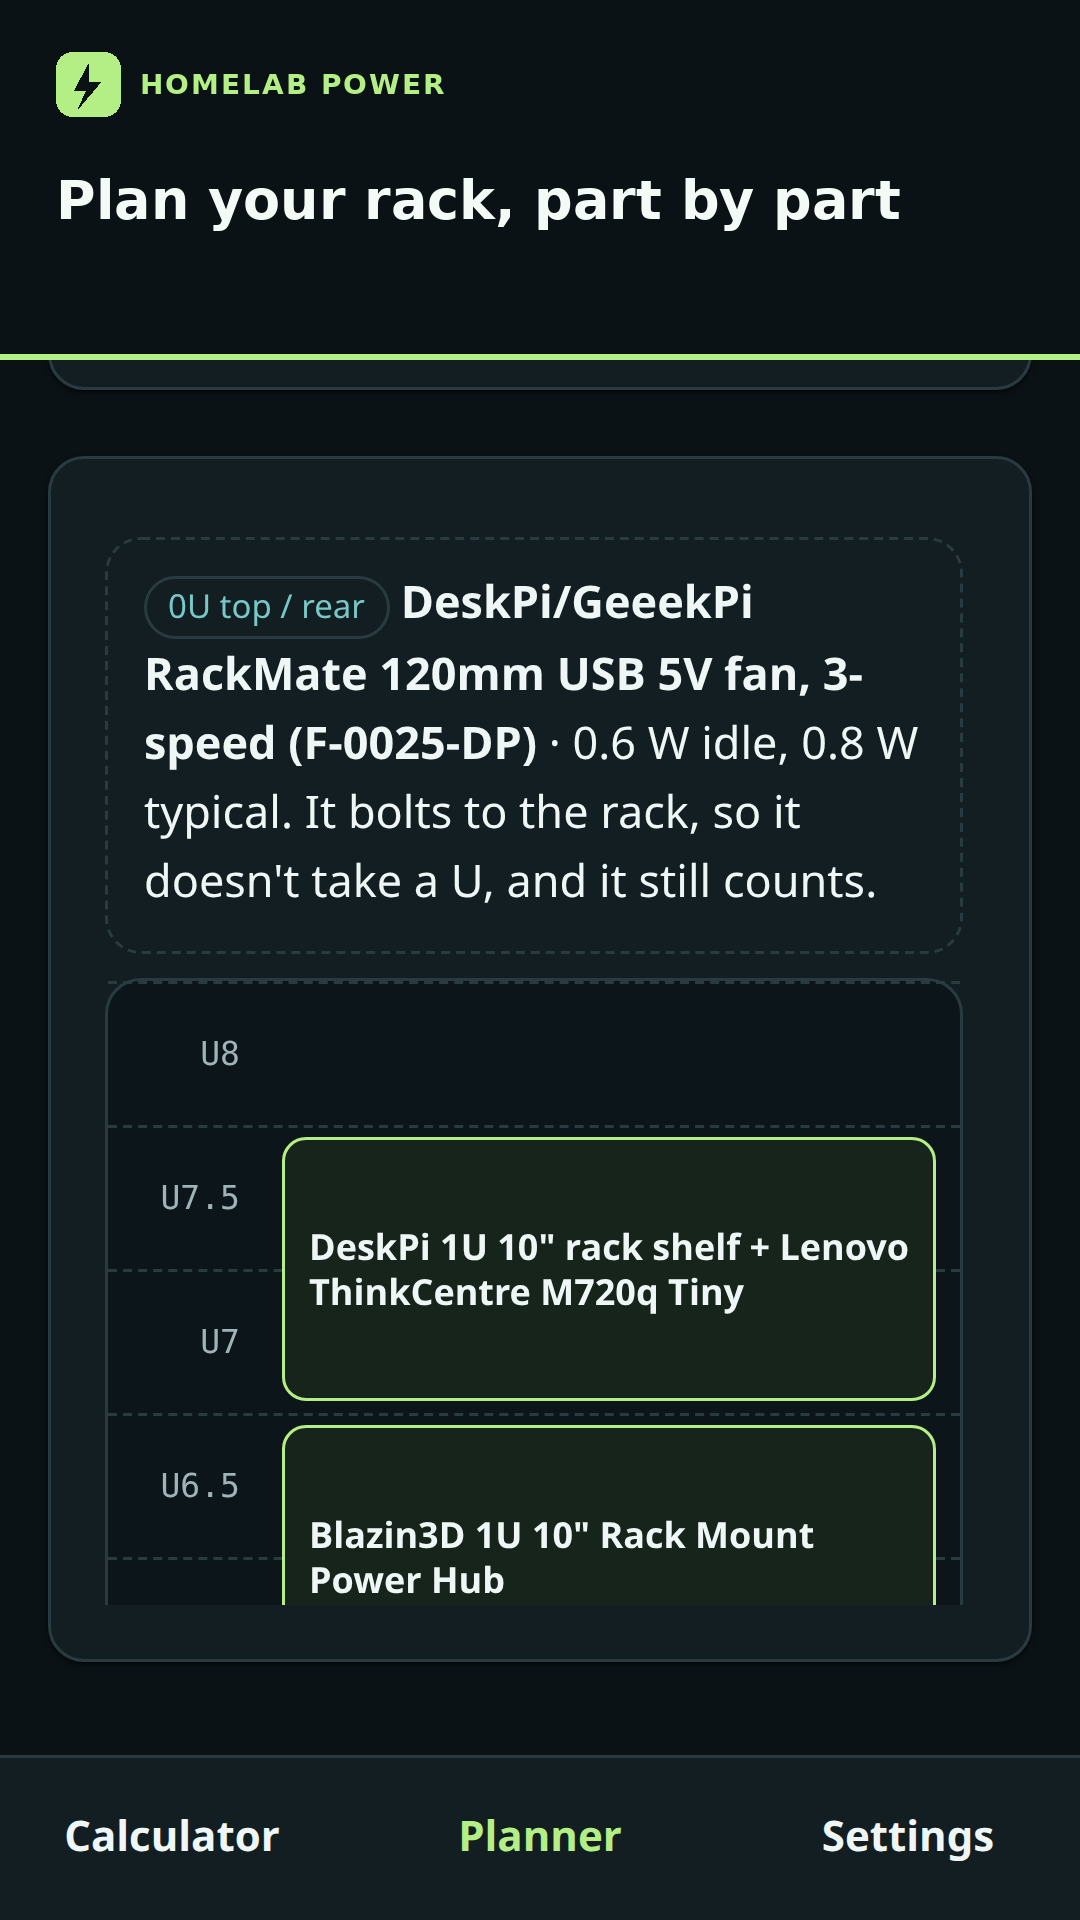
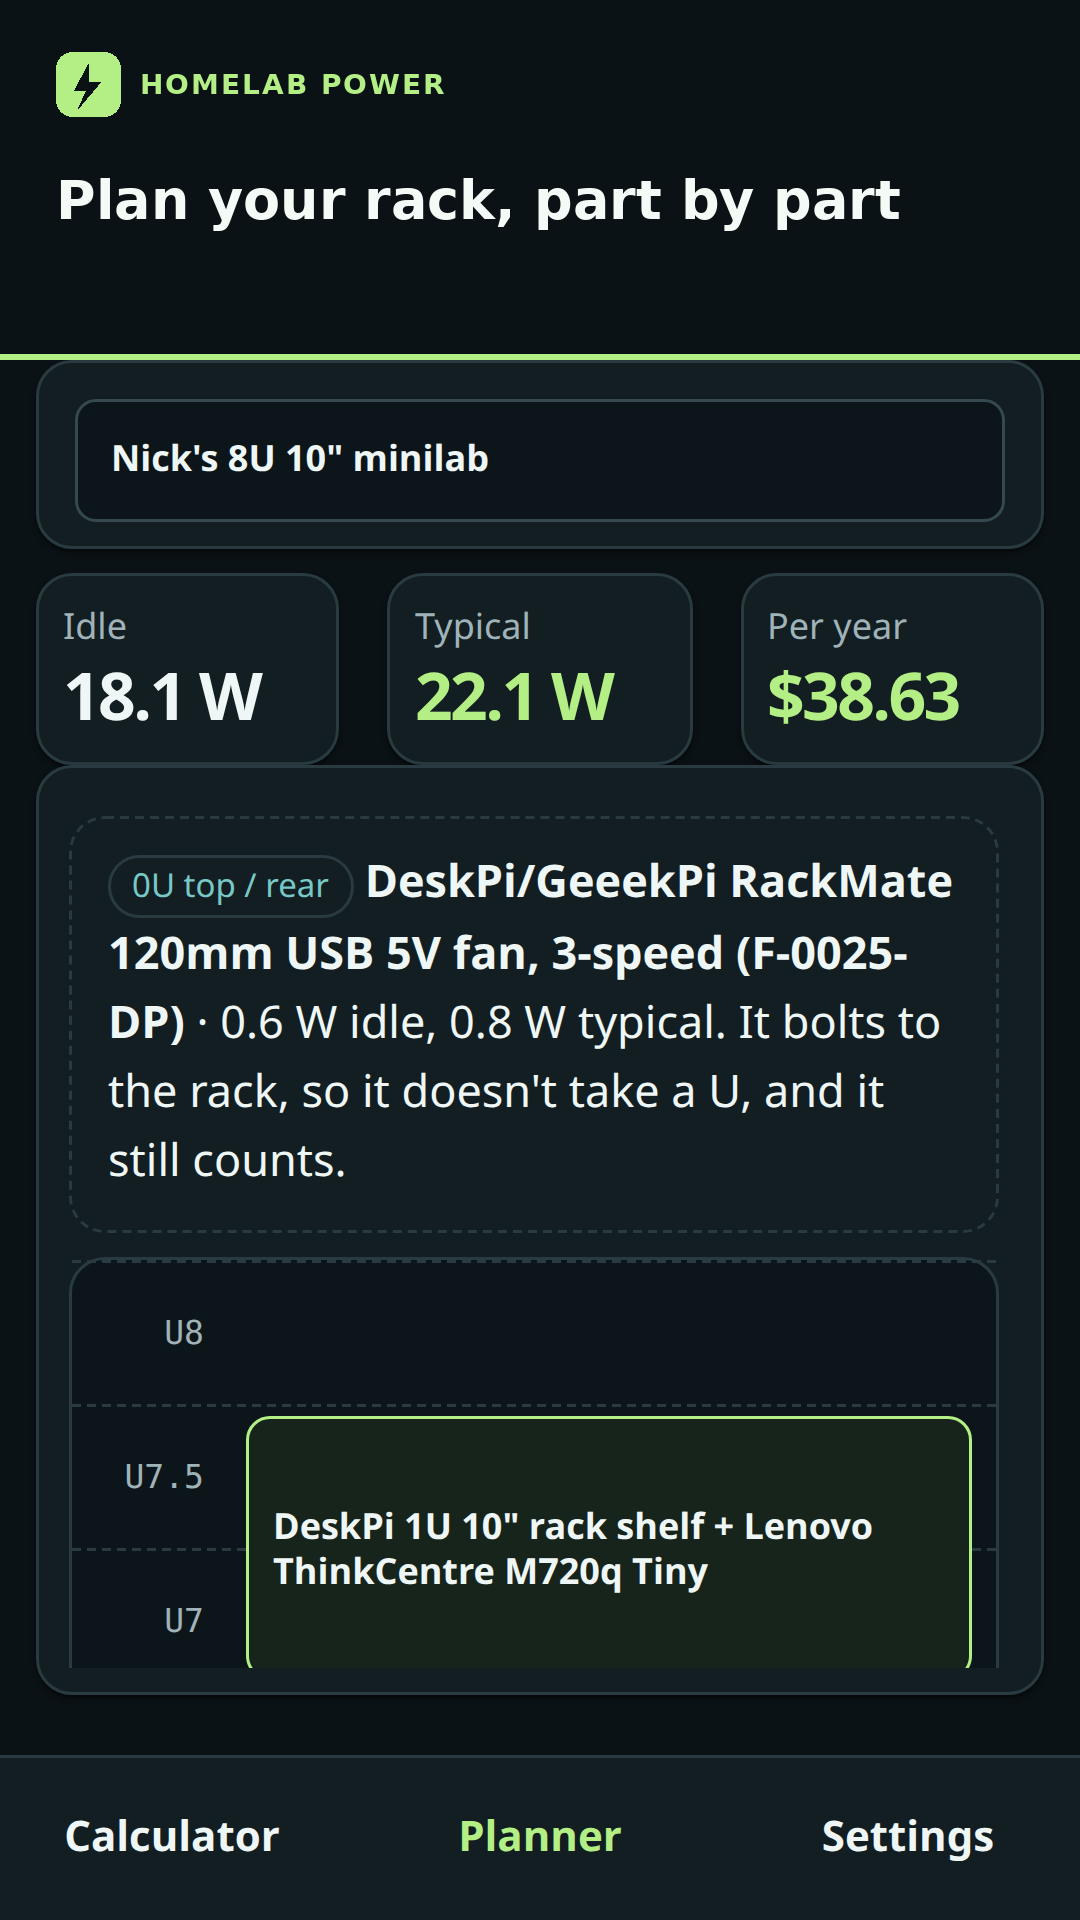
Fix Play screenshot crops and the planner's swap and UPS wording.
The planner frame starts at the build name and yearly cost. Suggestions use short names, and UPS runtime is hours and minutes.

diff --git a/planner.js b/planner.js
@@ -263,6 +263,10 @@ function renderTotals(build) {
   if (wide.length) bits.push('A 19 inch part won\'t sit in a 10 inch rack. It\'s listed with the shelf gear.');
   $('fitWarning').hidden = !bits.length;
   $('fitWarning').textContent = bits.join(' ');
+  const {rate, currency} = currentRate();
+  const year = M.energyCost(t.typical, rate).year;
+  $('yearTotal').textContent = money(year, currency);
+  $('yearTotal').dataset.cost = String(year);
   $('idleHeat').textContent = `${fmt(M.btuPerHour(t.idle), 1)} BTU/hr`;
   $('typicalHeat').textContent = `${fmt(M.btuPerHour(t.typical), 1)} BTU/hr`;
   $('idleHeat').dataset.btu = String(M.btuPerHour(t.idle));
@@ -389,29 +393,42 @@ function renderPro() {
   $('proTools').hidden = !on;
   if (on) renderCompare();
 }
+function runtimeWords(minutes) {
+  const total = Math.round(Number(minutes));
+  if (!Number.isFinite(total) || total < 0) return 'an unknown time';
+  if (total <= 90) return total === 1 ? '1 minute' : `${total} minutes`;
+  const hours = Math.floor(total / 60);
+  const mins = total % 60;
+  const hourText = hours === 1 ? '1 hour' : `${hours} hours`;
+  if (!mins) return hourText;
+  const minText = mins === 1 ? '1 minute' : `${mins} minutes`;
+  return `${hourText} ${minText}`;
+}
 function minutesPhrase(hit) {
-  if (!hit) return 'no published point';
-  if (hit.bound === 'longer') return `longer than ${fmt(hit.minutes, 1)} minutes on a new battery`;
-  if (hit.bound === 'shorter') return `shorter than ${fmt(hit.minutes, 1)} minutes on a new battery`;
-  return `${fmt(hit.minutes * 0.6, 1)} to ${fmt(hit.minutes, 1)} minutes`;
+  if (!hit) return 'no published runtime';
+  const words = runtimeWords(hit.minutes);
+  if (hit.bound === 'longer') return `More than ${words} on a new battery`;
+  if (hit.bound === 'shorter') return `Less than ${words} on a new battery`;
+  return `${runtimeWords(hit.minutes * 0.6)} to ${words} on a new battery`;
 }
 function runtimeSentence(part, item, load, label) {
   const rated = Number(part.ratedW);
   const over = Number.isFinite(rated) && rated > 0 && load > rated + 1e-6;
   const name = label === 'idle' ? 'Idle' : 'Typical';
-  if (over) return `<p class="circuit-warning load-over"><strong>Over the rating.</strong> ${name} load elsewhere is ${wattsText(load)}, and this UPS is rated ${wattsText(rated)}.</p>`;
+  const loadText = wattsText(load);
+  if (over) return `<p class="circuit-warning load-over"><strong>Over the rating.</strong> The ${name.toLowerCase()} load is ${loadText}, and this UPS is rated ${wattsText(rated)}.</p>`;
   if (Array.isArray(part.runtimeCurve) && part.runtimeCurve.length) {
     const hit = M.interpolateRuntime(part.runtimeCurve, load);
-    return `<p>${name}: ${minutesPhrase(hit)} at ${wattsText(load)} on the other gear. The top of the range is the published curve. The low end is 60% of that, for an older battery.</p>`;
+    return `<p>${name}: ${minutesPhrase(hit)} (${loadText} load). The top of the range is the published curve. The low end is 60% of that, for an older battery.</p>`;
   }
   const wh = item.batteryWh || part.batteryWh || part.batteryVAh;
   if (wh && load > 0) {
     const est = M.runtimeFromEnergy(wh, load);
     const energy = part.batteryVAh && !part.batteryWh && !item.batteryWh ? `${fmt(part.batteryVAh, 0)} VAh from the datasheet, used here as energy` : `${fmt(wh, 1)} Wh`;
-    return `<p>${name}: about ${fmt(est.low, 0)} to ${fmt(est.high, 0)} minutes, with ${fmt(est.mid, 0)} in the middle, at ${wattsText(load)}. That uses ${energy}, 85% efficiency, and 80% of the pack. The edges of the range are 80% / 70% and 90% / 90%.</p>`;
+    return `<p>${name}: about ${runtimeWords(est.low)} to ${runtimeWords(est.high)}, with ${runtimeWords(est.mid)} in the middle (${loadText} load). That uses ${energy}, 85% efficiency, and 80% of the pack. The edges of the range are 80% / 70% and 90% / 90%.</p>`;
   }
   if (!(load > 0)) return `<p>${name}: nothing else in the build is drawing power, so runtime isn't the limiting question.</p>`;
-  return `<p>${name} load elsewhere is ${wattsText(load)}. No published battery size is stored for this model.</p>`;
+  return `<p>The ${name.toLowerCase()} load is ${loadText}. No published battery size is stored for this model.</p>`;
 }
 function renderUps(build) {
   const ups = (build.items || []).filter(it => partById(it.partId)?.category === 'ups');
@@ -426,6 +443,33 @@ function renderUps(build) {
     const source = [p.runtimeSource, p.batterySource].filter((url, i, all) => url && all.indexOf(url) === i).map(url => `<a href="${esc(url)}" target="_blank" rel="noopener noreferrer">Source</a>`).join(' ');
     return `<article class="comparison-card"><h3>${esc(labelOf(p, it))}</h3>${runtimeSentence(p, it, idle, 'idle')}${runtimeSentence(p, it, typical, 'typical')}<p class="help">${esc(p.runtimeNote || '')} ${source}</p>${input}</article>`;
   }).join('') + (ups.length > 1 ? '<p class="help">Each UPS is checked against everything else in the build, as if it were carrying the whole load.</p>' : '');
+}
+function ideaName(part) {
+  if (!part) return 'that part';
+  const model = String(part.model || '');
+  if (part.category === 'monitor') {
+    const size = model.match(/(\d+(?:\.\d+)?)\s*(?:"|″|inch)/i);
+    return size ? `${size[1]}" monitor` : 'monitor';
+  }
+  if (part.category === 'rack-server') {
+    const token = model.replace(/PowerEdge\s+/i, '').replace(/ProLiant\s+/i, '').replace(/\s*\([^)]*\)/g, '').trim().split(/\s+/)[0];
+    const brand = String(part.brand || '').split('/')[0].trim();
+    return brand && token ? `${brand} ${token}` : (token || 'rack server');
+  }
+  if (part.category === 'drive') {
+    const size = model.match(/(\d+(?:\.\d+)?)\s*(TB|GB)/i);
+    const ssd = /ssd/i.test(`${model} ${part.formFactor || ''}`);
+    return size ? `${size[1]} ${size[2].toUpperCase()} ${ssd ? 'SSD' : 'HDD'}` : (ssd ? 'SSD' : 'HDD');
+  }
+  if (part.category === 'mini-pc') {
+    const hit = model.match(/\b(M\d{2,3}[a-z]?(?:\s+Gen\s*\d+)?|MS-\d+|OptiPlex\s+\d+|EliteDesk\s+\d+\s+G\d+)\b/i);
+    if (hit) return hit[1].replace(/\s+/g, ' ');
+  }
+  const brand = String(part.brand || '').split('/')[0].trim();
+  const shortModel = model.replace(/\s*\([^)]*\)/g, '').split(',')[0].trim();
+  if (!brand || brand === 'Generic') return shortModel || 'that part';
+  const both = `${brand} ${shortModel}`.replace(/\s+/g, ' ').trim();
+  return both.length > 42 ? shortModel : both;
 }
 function catalogChoice(category, skipId, score) {
   return allParts().filter(p => p.category === category && p.id !== skipId && Number.isFinite(+p.typicalW)).sort((a, b) => score(a) - score(b))[0] || null;
@@ -443,14 +487,14 @@ function renderWhatIf(build) {
   for (const row of rows) {
     if (row.p.category === 'rack-server' && row.watts >= 80) {
       const mini = catalogChoice('mini-pc', row.p.id, p => p.typicalW);
-      if (mini && mini.typicalW < row.watts) ideas.push({key: `server:${row.it.uid}`, title: `Move ${labelOf(row.p)} onto a tiny PC`, note: 'Only if that job actually fits on a tiny PC. This is the watt gap, not a promise about the processor.', from: row.watts, to: mini.typicalW, apply: copy => { const hit = copy.items.find(it => it.uid === row.it.uid); if (hit) { hit.partId = mini.id; hit.qty = 1; hit.idleOverride = null; hit.typicalOverride = null; } }});
+      if (mini && mini.typicalW < row.watts) ideas.push({key: `server:${row.it.uid}`, title: `Move the ${ideaName(row.p)} onto a tiny PC`, note: 'Only if that job actually fits on a tiny PC. This is the watt gap, not a promise about the processor.', from: row.watts, to: mini.typicalW, apply: copy => { const hit = copy.items.find(it => it.uid === row.it.uid); if (hit) { hit.partId = mini.id; hit.qty = 1; hit.idleOverride = null; hit.typicalOverride = null; } }});
     }
     if (row.p.category === 'switch' && row.watts >= 20) {
       const modern = catalogChoice('switch', row.p.id, p => p.typicalW);
-      if (modern && modern.typicalW < row.watts) ideas.push({key: `switch:${row.it.uid}`, title: `Try ${labelOf(modern)} instead of ${labelOf(row.p)}`, note: 'Port count and PoE may not match. Check that before you buy one.', from: row.watts, to: modern.typicalW, apply: copy => { const hit = copy.items.find(it => it.uid === row.it.uid); if (hit) { hit.partId = modern.id; hit.qty = 1; hit.idleOverride = null; hit.typicalOverride = null; } }});
+      if (modern && modern.typicalW < row.watts) ideas.push({key: `switch:${row.it.uid}`, title: `Try a ${ideaName(modern)} instead of the ${ideaName(row.p)}`, note: 'Port count and PoE may not match. Check that before you buy one.', from: row.watts, to: modern.typicalW, apply: copy => { const hit = copy.items.find(it => it.uid === row.it.uid); if (hit) { hit.partId = modern.id; hit.qty = 1; hit.idleOverride = null; hit.typicalOverride = null; } }});
     }
     if (row.p.category === 'monitor' && row.watts >= 3) {
-      ideas.push({key: `sleep:${row.it.uid}`, title: `Count ${labelOf(row.p)} as off`, note: 'This counts the screen as off. It is not a measured sleep watt.', from: row.watts, to: 0, apply: copy => { const hit = copy.items.find(it => it.uid === row.it.uid); if (hit) { hit.idleOverride = 0; hit.typicalOverride = 0; } }});
+      ideas.push({key: `sleep:${row.it.uid}`, title: `Turn the ${ideaName(row.p)} off when you're not using it`, note: 'The screen is counted as off. That is not a measured sleep watt.', from: row.watts, to: 0, apply: copy => { const hit = copy.items.find(it => it.uid === row.it.uid); if (hit) { hit.idleOverride = 0; hit.typicalOverride = 0; } }});
     }
   }
   const drives = rows.filter(row => row.p.category === 'drive' && row.watts >= 2);
@@ -459,7 +503,11 @@ function renderWhatIf(build) {
     if (ssd && ssd.typicalW < 1) {
       const pair = drives.slice(0, 2);
       const from = pair.reduce((sum, row) => sum + row.watts, 0);
-      ideas.push({key: 'drives', title: `Replace ${labelOf(pair[0].p)} and ${labelOf(pair[1].p)} with ${labelOf(ssd)}`, note: 'Only if the data fits on that one drive.', from, to: ssd.typicalW, apply: copy => { const drop = new Set(pair.map(row => row.it.uid)); copy.items = copy.items.filter(it => !drop.has(it.uid)); copy.items.push({uid: uid(), partId: ssd.id, qty: 1, placement: 'shelf', startU: null, idleOverride: null, typicalOverride: null}); }});
+      const left = ideaName(pair[0].p);
+      const right = ideaName(pair[1].p);
+      const disk = ideaName(ssd);
+      const title = left === right ? `Replace two ${left}s with one ${disk}` : `Replace the ${left} and the ${right} with one ${disk}`;
+      ideas.push({key: 'drives', title, note: 'Only if the data fits on that one drive.', from, to: ssd.typicalW, apply: copy => { const drop = new Set(pair.map(row => row.it.uid)); copy.items = copy.items.filter(it => !drop.has(it.uid)); copy.items.push({uid: uid(), partId: ssd.id, qty: 1, placement: 'shelf', startU: null, idleOverride: null, typicalOverride: null}); }});
     }
   }
   const rank = rows.slice(0, 5).map(row => `<li>${esc(labelOf(row.p))} · ${wattsText(row.watts)} · ${money(row.year, currency)} a year</li>`).join('');

diff --git a/planner.html b/planner.html
@@ -36,6 +36,7 @@
 <div class="bento" aria-live="polite">
 <article class="stat"><p>Idle</p><strong id="idleTotal">0 W</strong></article>
 <article class="stat"><p>Typical</p><strong id="typicalTotal">0 W</strong></article>
+<article class="stat stat-money"><p>Per year</p><strong id="yearTotal">$0</strong></article>
 <article class="stat"><p>Heat, idle</p><strong id="idleHeat">0</strong></article>
 <article class="stat"><p>Heat, typical</p><strong id="typicalHeat">0</strong></article>
 <article class="stat stat-actions"><button id="sendCalc" type="button">Send to calculator</button><button id="copyBuild" type="button" class="secondary">Copy link</button></article>

diff --git a/ui.css b/ui.css
@@ -27,7 +27,7 @@ button:hover{transform:translateY(-1px)}
 button:active{transform:translateY(1px);box-shadow:var(--shadow-press)}
 button.secondary,button.quiet{box-shadow:none}
 button:focus-visible,a:focus-visible,input:focus-visible,select:focus-visible{outline:2px solid var(--accent);outline-offset:3px}
-.total-card:last-child strong,.stat:nth-child(2) strong{color:var(--accent)}
+.total-card:last-child strong,.stat:nth-child(2) strong,.stat-money strong{color:var(--accent)}
 .load-ok strong{color:var(--load-ok)}
 .load-heavy{border-color:var(--load-heavy)}
 .load-heavy strong{color:var(--load-heavy)}

diff --git a/store/play-screenshots/README.md b/store/play-screenshots/README.md
@@ -11,4 +11,4 @@ Six frames for the phone listing. Each one is 1080 by 1920, 24-bit color, with n
 | `05-compare.png` | Keep a few builds side by side |
 | `06-themes.png` | Make it yours |
 
-The first five are the dark theme. The last one is light, with Nordic Server and Amber Terminal. Compare and the savings card use the Pro preview so those screens are unlocked. Nick's 8U build is the rack in the planner shot.
+The first five are the dark theme. The last one is light, with Nordic Server and Amber Terminal. Compare and the savings card use the Pro preview so those screens are unlocked. The planner shot is Nick's 8U build, from the name and the yearly cost down through the top of the rack. The savings shot is the Dell R730 preset, with a $120 tiny-PC swap. The calculator shot is the sample lab: a rack server, a 4-drive NAS, a mini PC, a switch, and a Pi.
